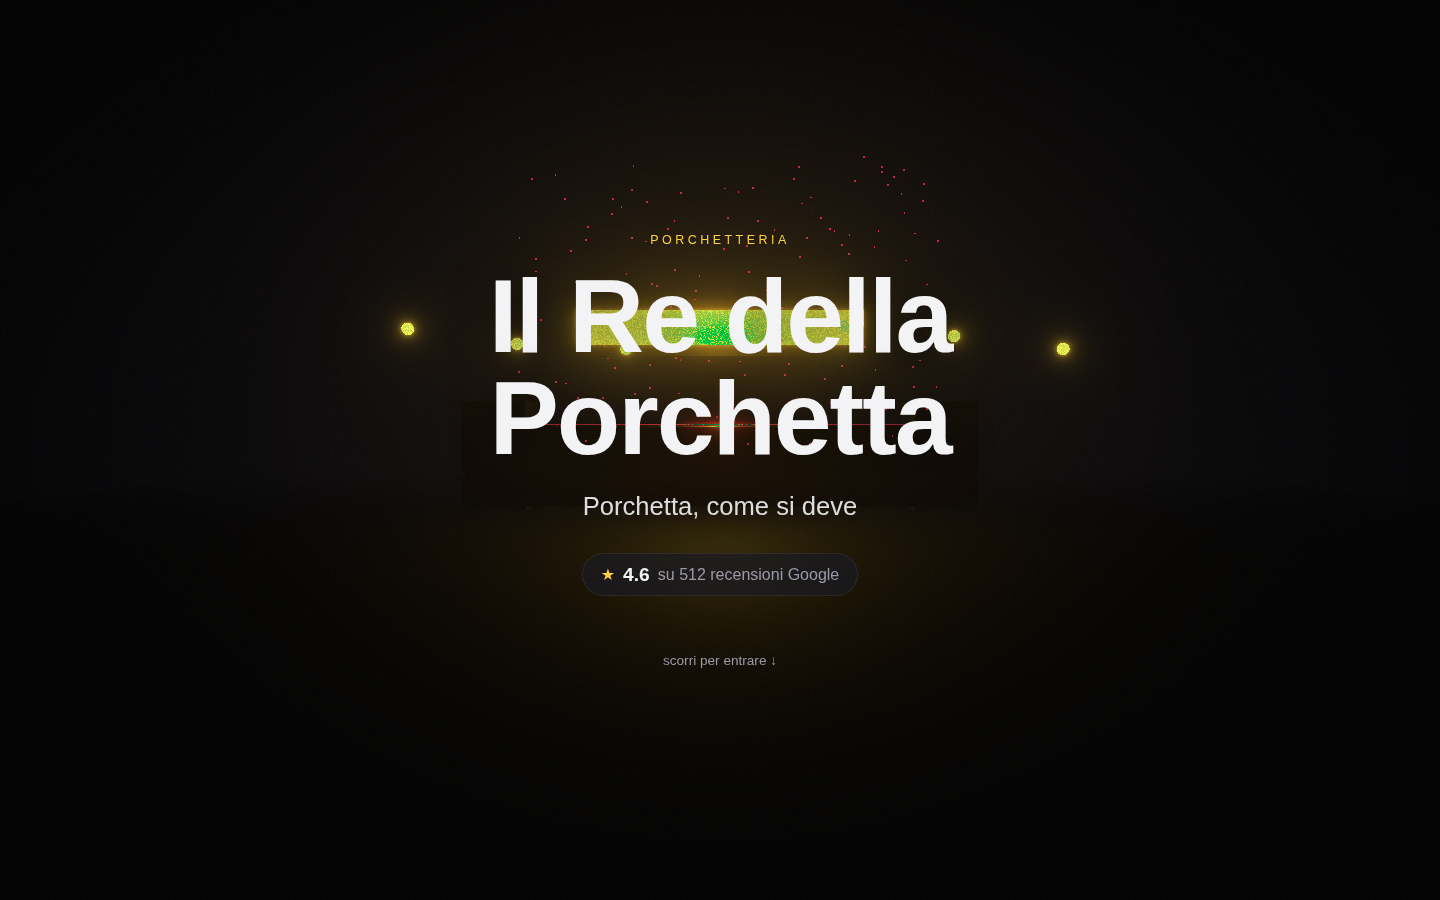
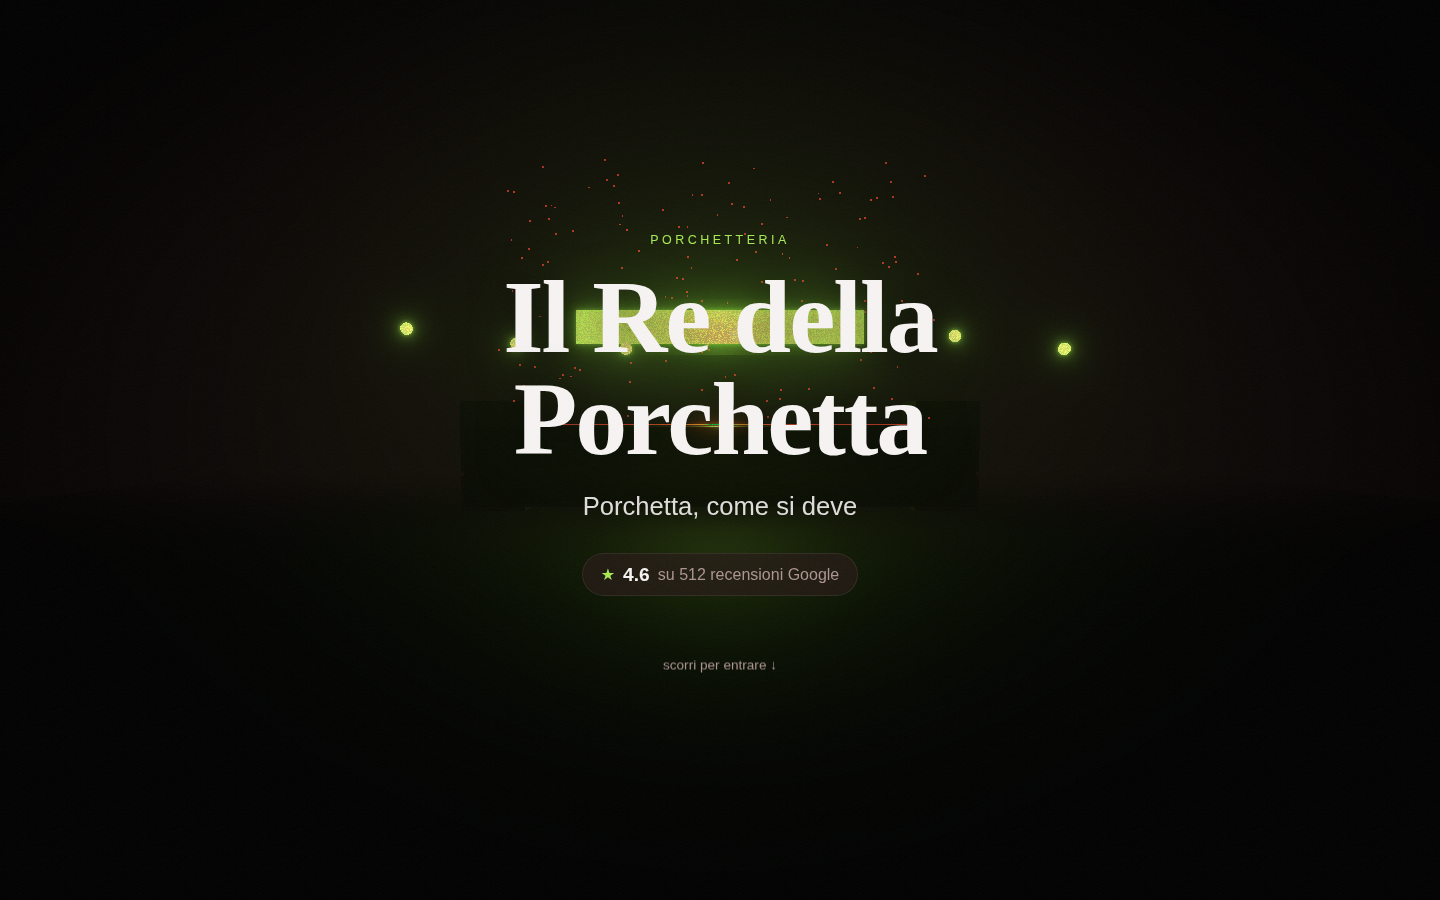
Add art-director: direzione visiva unica per ogni locale (no palette standard)
Verso "ogni sito diverso, massima qualita":
- lib/art-director.mjs: palette generata per attivita (seeded, diversa da locale a locale), coppia tipografica, motivo d'animazione di nicchia, stile camera, e BRIEF cinematografico per la fase di rifinitura
- nicchie speciali riconosciute da categoria (immobiliare=drone, elettronica=esploso) con precedenza
- build-business usa la direzione artistica al posto del tema fisso; schema: campo art_direction
- Higgsfield NON usato come dipendenza del prodotto (scelta utente); il brief cinematografico e provider-agnostico

Claude-Session: https://claude.ai/code/session_0188YfMgnDDs1NVN1Mm385NE

diff --git a/local3d-prospector/sites/il-re-della-porchetta/index.html b/local3d-prospector/sites/il-re-della-porchetta/index.html
@@ -11,7 +11,7 @@
       Un solo bundle, N siti: si cambia solo questo blocco per cliente.
     -->
     <script id="business-data">
-      window.__BUSINESS__ = {"meta":{"place_id":"mock_porchetta_re","slug":"il-re-della-porchetta","owner_id":"danilo","category":"porchetteria","template":"streetfood","build_mode":"demo","score":46,"generated_at":"2026-07-05T14:22:12.641Z"},"identity":{"name":"Il Re della Porchetta","claim":"Porchetta, come si deve","tone":"street"},"contacts":{"phone":{"value":"06 9876 5432","source":"google_places"},"address":{"value":"Piazza del Mercato 8, 00044 Frascati RM","maps_url":"https://maps.google.com/?cid=porchetta","source":"google_places"},"hours":{"value":["lunedì: Chiuso","martedì: 10:00–15:00","mercoledì: 10:00–15:00","giovedì: 10:00–15:00","venerdì: 10:00–15:00, 18:00–22:00","sabato: 10:00–22:00","domenica: 10:00–16:00"],"source":"google_places"}},"social_proof":{"rating":4.6,"count":512,"source":"google_places","themes":[{"label":"Porchetta","evidence_count":4,"source":"derived_from_reviews"},{"label":"Panino","evidence_count":2,"source":"derived_from_reviews"}],"testimonials":[{"text":"La porchetta è leggendaria, il panino più buono dei Castelli. C'è sempre la fila ma ne vale la pena.","author":"Cliente G.","source":"derived_from_reviews"},{"text":"Supplì fantastici e porchetta da urlo. Prenotate per il pranzo della domenica.","author":"Cliente M.","source":"derived_from_reviews"},{"text":"Panino con la porchetta enorme e saporito, salsiccia ottima. Sempre pieno.","author":"Cliente A.","source":"derived_from_reviews"}]},"gallery":[],"loved":[{"name":"Porchetta","source":"derived_from_reviews"},{"name":"Panino","source":"derived_from_reviews"}],"theme":{"palette":{"bg":"#0a0a0f","surface":"#15151f","primary":"#ff3d5a","accent":"#ffd23f","text":"#f5f5f7","muted":"#9a9aa8"},"font_display":"'Anton', sans-serif","font_body":"'Inter', sans-serif","fx_intensity":"high"},"sections_order":["hero","atmosphere","loved","reviews","hours","contact","cta"],"cta":{"mode":"demo","headline":"Anteprima per Il Re della Porchetta","price_setup_eur":890,"price_monthly_eur":59,"guarantee_days":7,"wa_link":"https://wa.me/390698765432?text=Buongiorno!%20Sono%20Danilo%2C%20creo%20siti%20per%20locali%20della%20zona.%20Ho%20preparato%20un'anteprima%20gratuita%20del%20sito%20di%20Il%20Re%20della%20Porchetta%2C%20guardatela%20quando%20volete%3A%20https%3A%2F%2Fapi.local3d.example%2Fd%2Ffk19bsgyna730prcctxb3e%20%E2%80%94%20se%20vi%20piace%20ne%20parliamo%2C%20altrimenti%20nessun%20problema%20%F0%9F%99%82","checkout_url":"https://api.local3d.example/buy/fk19bsgyna730prcctxb3e","track_url":"https://api.local3d.example/track"}};
+      window.__BUSINESS__ = {"meta":{"place_id":"mock_porchetta_re","slug":"il-re-della-porchetta","owner_id":"danilo","category":"porchetteria","template":"streetfood","build_mode":"demo","score":46,"generated_at":"2026-07-05T14:54:08.051Z"},"identity":{"name":"Il Re della Porchetta","claim":"Porchetta, come si deve","tone":"street"},"contacts":{"phone":{"value":"06 9876 5432","source":"google_places"},"address":{"value":"Piazza del Mercato 8, 00044 Frascati RM","maps_url":"https://maps.google.com/?cid=porchetta","source":"google_places"},"hours":{"value":["lunedì: Chiuso","martedì: 10:00–15:00","mercoledì: 10:00–15:00","giovedì: 10:00–15:00","venerdì: 10:00–15:00, 18:00–22:00","sabato: 10:00–22:00","domenica: 10:00–16:00"],"source":"google_places"}},"social_proof":{"rating":4.6,"count":512,"source":"google_places","themes":[{"label":"Porchetta","evidence_count":4,"source":"derived_from_reviews"},{"label":"Panino","evidence_count":2,"source":"derived_from_reviews"}],"testimonials":[{"text":"La porchetta è leggendaria, il panino più buono dei Castelli. C'è sempre la fila ma ne vale la pena.","author":"Cliente G.","source":"derived_from_reviews"},{"text":"Supplì fantastici e porchetta da urlo. Prenotate per il pranzo della domenica.","author":"Cliente M.","source":"derived_from_reviews"},{"text":"Panino con la porchetta enorme e saporito, salsiccia ottima. Sempre pieno.","author":"Cliente A.","source":"derived_from_reviews"}]},"gallery":[],"loved":[{"name":"Porchetta","source":"derived_from_reviews"},{"name":"Panino","source":"derived_from_reviews"}],"theme":{"palette":{"bg":"#140c0b","surface":"#271917","primary":"#e54e34","accent":"#a8ea53","text":"#f7f4f3","muted":"#ac9591"},"font_display":"'Cormorant Garamond', 'Times New Roman', serif","font_body":"'Inter', sans-serif","fx_intensity":"high"},"art_direction":{"niche":"streetfood","motif":"griglia-e-braci","camera":"orbit-counter","cinematic":{"prompt":"cinematic close-up of sizzling street food on a hot griddle, embers, steam, shallow depth of field, appetizing","aspect":"16:9","use_from":"atelier"}},"sections_order":["hero","atmosphere","loved","reviews","hours","contact","cta"],"cta":{"mode":"demo","headline":"Anteprima per Il Re della Porchetta","price_setup_eur":890,"price_monthly_eur":59,"guarantee_days":7,"wa_link":"https://wa.me/390698765432?text=Buongiorno!%20Sono%20Danilo%2C%20creo%20siti%20per%20locali%20della%20zona.%20Ho%20preparato%20un'anteprima%20gratuita%20del%20sito%20di%20Il%20Re%20della%20Porchetta%2C%20guardatela%20quando%20volete%3A%20https%3A%2F%2Fapi.local3d.example%2Fd%2Fp17ctbfgwyd4l647lvt3cd%20%E2%80%94%20se%20vi%20piace%20ne%20parliamo%2C%20altrimenti%20nessun%20problema%20%F0%9F%99%82","checkout_url":"https://api.local3d.example/buy/p17ctbfgwyd4l647lvt3cd","track_url":"https://api.local3d.example/track"}};
     </script>
     <script type="module" crossorigin src="./assets/index-DRX9uchk.js"></script>
     <link rel="modulepreload" crossorigin href="./assets/three-LddpLalT.js">

diff --git a/local3d-prospector/sites/arcadia-pub/index.html b/local3d-prospector/sites/arcadia-pub/index.html
@@ -11,7 +11,7 @@
       Un solo bundle, N siti: si cambia solo questo blocco per cliente.
     -->
     <script id="business-data">
-      window.__BUSINESS__ = {"meta":{"place_id":"mock_arcadia_pub","slug":"arcadia-pub","owner_id":"danilo","category":"pub","template":"pub","build_mode":"demo","score":56,"generated_at":"2026-07-05T14:22:12.579Z"},"identity":{"name":"Arcadia Pub","claim":"Birra artigianale, come si deve","tone":"cozy"},"contacts":{"phone":{"value":"06 1234 5670","source":"google_places"},"address":{"value":"Via dei Laghi 42, 00043 Ciampino RM","maps_url":"https://maps.google.com/?cid=arcadia","source":"google_places"},"hours":{"value":["lunedì: 18:00–01:00","martedì: 18:00–01:00","mercoledì: 18:00–01:00","giovedì: 18:00–01:00","venerdì: 18:00–02:00","sabato: 18:00–02:00","domenica: 18:00–00:00"],"source":"google_places"}},"social_proof":{"rating":4.7,"count":384,"source":"google_places","themes":[{"label":"Birra artigianale","evidence_count":2,"source":"derived_from_reviews"},{"label":"Hamburger","evidence_count":2,"source":"derived_from_reviews"}],"testimonials":[{"text":"Selezione di birra artigianale pazzesca e hamburger enormi. Il sabato è sempre pieno, consiglio di prenotare.","author":"Cliente G.","source":"derived_from_reviews"},{"text":"Le alette di pollo sono le migliori della zona, atmosfera top e staff gentilissimo.","author":"Cliente M.","source":"derived_from_reviews"},{"text":"Locale sempre affollato, ottima birra e patatine fantastiche. Difficile trovare posto senza prenotazione.","author":"Cliente A.","source":"derived_from_reviews"}]},"gallery":[],"loved":[{"name":"Birra artigianale","source":"derived_from_reviews"},{"name":"Hamburger","source":"derived_from_reviews"}],"theme":{"palette":{"bg":"#140f0a","surface":"#221913","primary":"#e08a3c","accent":"#f2c879","text":"#f7efe4","muted":"#b09a82"},"font_display":"'Fraunces', serif","font_body":"'Inter', sans-serif","fx_intensity":"medium"},"sections_order":["hero","atmosphere","loved","reviews","hours","contact","cta"],"cta":{"mode":"demo","headline":"Anteprima per Arcadia Pub","price_setup_eur":890,"price_monthly_eur":59,"guarantee_days":7,"wa_link":"https://wa.me/390612345670?text=Buongiorno!%20Sono%20Danilo%2C%20creo%20siti%20per%20locali%20della%20zona.%20Ho%20preparato%20un'anteprima%20gratuita%20del%20sito%20di%20Arcadia%20Pub%2C%20guardatela%20quando%20volete%3A%20https%3A%2F%2Fapi.local3d.example%2Fd%2Fb63umu8sr49q16ya33e3na%20%E2%80%94%20se%20vi%20piace%20ne%20parliamo%2C%20altrimenti%20nessun%20problema%20%F0%9F%99%82","checkout_url":"https://api.local3d.example/buy/b63umu8sr49q16ya33e3na","track_url":"https://api.local3d.example/track"}};
+      window.__BUSINESS__ = {"meta":{"place_id":"mock_arcadia_pub","slug":"arcadia-pub","owner_id":"danilo","category":"pub","template":"pub","build_mode":"demo","score":56,"generated_at":"2026-07-05T14:54:07.786Z"},"identity":{"name":"Arcadia Pub","claim":"Birra artigianale, come si deve","tone":"cozy"},"contacts":{"phone":{"value":"06 1234 5670","source":"google_places"},"address":{"value":"Via dei Laghi 42, 00043 Ciampino RM","maps_url":"https://maps.google.com/?cid=arcadia","source":"google_places"},"hours":{"value":["lunedì: 18:00–01:00","martedì: 18:00–01:00","mercoledì: 18:00–01:00","giovedì: 18:00–01:00","venerdì: 18:00–02:00","sabato: 18:00–02:00","domenica: 18:00–00:00"],"source":"google_places"}},"social_proof":{"rating":4.7,"count":384,"source":"google_places","themes":[{"label":"Birra artigianale","evidence_count":2,"source":"derived_from_reviews"},{"label":"Hamburger","evidence_count":2,"source":"derived_from_reviews"}],"testimonials":[{"text":"Selezione di birra artigianale pazzesca e hamburger enormi. Il sabato è sempre pieno, consiglio di prenotare.","author":"Cliente G.","source":"derived_from_reviews"},{"text":"Le alette di pollo sono le migliori della zona, atmosfera top e staff gentilissimo.","author":"Cliente M.","source":"derived_from_reviews"},{"text":"Locale sempre affollato, ottima birra e patatine fantastiche. Difficile trovare posto senza prenotazione.","author":"Cliente A.","source":"derived_from_reviews"}]},"gallery":[],"loved":[{"name":"Birra artigianale","source":"derived_from_reviews"},{"name":"Hamburger","source":"derived_from_reviews"}],"theme":{"palette":{"bg":"#17110c","surface":"#231c15","primary":"#e9862f","accent":"#53ea5d","text":"#f7f5f3","muted":"#ac9d91"},"font_display":"'Anton', 'Archivo Black', sans-serif","font_body":"'Inter', sans-serif","fx_intensity":"high"},"art_direction":{"niche":"pub","motif":"ingresso-nel-locale","camera":"dolly-forward","cinematic":{"prompt":"cinematic slow push-in through a warm dim craft-beer pub interior, glowing taps, bokeh, film grain","aspect":"16:9","use_from":"atelier"}},"sections_order":["hero","atmosphere","loved","reviews","hours","contact","cta"],"cta":{"mode":"demo","headline":"Anteprima per Arcadia Pub","price_setup_eur":890,"price_monthly_eur":59,"guarantee_days":7,"wa_link":"https://wa.me/390612345670?text=Buongiorno!%20Sono%20Danilo%2C%20creo%20siti%20per%20locali%20della%20zona.%20Ho%20preparato%20un'anteprima%20gratuita%20del%20sito%20di%20Arcadia%20Pub%2C%20guardatela%20quando%20volete%3A%20https%3A%2F%2Fapi.local3d.example%2Fd%2Fnzbx9mw2wtnm8nj4k2gn2q%20%E2%80%94%20se%20vi%20piace%20ne%20parliamo%2C%20altrimenti%20nessun%20problema%20%F0%9F%99%82","checkout_url":"https://api.local3d.example/buy/nzbx9mw2wtnm8nj4k2gn2q","track_url":"https://api.local3d.example/track"}};
     </script>
     <script type="module" crossorigin src="./assets/index-DRX9uchk.js"></script>
     <link rel="modulepreload" crossorigin href="./assets/three-LddpLalT.js">

diff --git a/local3d-prospector/outbox/cockpit.html b/local3d-prospector/outbox/cockpit.html
@@ -22,7 +22,7 @@ code{background:#000;padding:.25rem .5rem;border-radius:6px;font-size:.75rem;col
 .empty{color:#6a6a78;font-style:italic}
 </style></head><body>
 <h1>Local3D · Cockpit</h1>
-<div class="sub">Governa i due cancelli. Aggiornato: 2026-07-05T14:22:37.423Z</div>
+<div class="sub">Governa i due cancelli. Aggiornato: 2026-07-05T14:54:30.792Z</div>
 <div class="kpis">
   <div class="kpi"><b>3</b><span>prospect totali</span></div>
   <div class="kpi"><b>2</b><span>demo da approvare</span></div>
@@ -36,8 +36,8 @@ code{background:#000;padding:.25rem .5rem;border-radius:6px;font-size:.75rem;col
     <div class="chead"><h3>Arcadia Pub</h3><span class="score">56</span></div>
     <div class="meta">4.7★ (384) · Ciampino · pub · <span class="state s-demo-pronta">demo-pronta</span></div>
     <div class="shots"><a href="../sites/arcadia-pub/shots/desktop-hero.png" target="_blank"><img src="../sites/arcadia-pub/shots/desktop-hero.png" loading="lazy"></a><a href="../sites/arcadia-pub/shots/mobile-hero.png" target="_blank"><img src="../sites/arcadia-pub/shots/mobile-hero.png" loading="lazy"></a><a href="../sites/arcadia-pub/shots/desktop-cta.png" target="_blank"><img src="../sites/arcadia-pub/shots/desktop-cta.png" loading="lazy"></a></div>
-    <div class="meta small">QA ✓ 1139KB · 564ms</div>
-    <div class="meta small">Demo: <code>https://api.local3d.example/d/b63umu8sr49q16ya33e3na</code></div>
+    <div class="meta small">QA ✓ 1139KB · 606ms</div>
+    <div class="meta small">Demo: <code>https://api.local3d.example/d/nzbx9mw2wtnm8nj4k2gn2q</code></div>
     <div class="actions">
       <code>npm run registry -- approve mock_arcadia_pub</code>
       <code>npm run registry -- reject mock_arcadia_pub</code>
@@ -46,8 +46,8 @@ code{background:#000;padding:.25rem .5rem;border-radius:6px;font-size:.75rem;col
     <div class="chead"><h3>Il Re della Porchetta</h3><span class="score">46</span></div>
     <div class="meta">4.6★ (512) · Frascati · streetfood · <span class="state s-demo-pronta">demo-pronta</span></div>
     <div class="shots"><a href="../sites/il-re-della-porchetta/shots/desktop-hero.png" target="_blank"><img src="../sites/il-re-della-porchetta/shots/desktop-hero.png" loading="lazy"></a><a href="../sites/il-re-della-porchetta/shots/mobile-hero.png" target="_blank"><img src="../sites/il-re-della-porchetta/shots/mobile-hero.png" loading="lazy"></a><a href="../sites/il-re-della-porchetta/shots/desktop-cta.png" target="_blank"><img src="../sites/il-re-della-porchetta/shots/desktop-cta.png" loading="lazy"></a></div>
-    <div class="meta small">QA ✓ 1139KB · 561ms</div>
-    <div class="meta small">Demo: <code>https://api.local3d.example/d/fk19bsgyna730prcctxb3e</code></div>
+    <div class="meta small">QA ✓ 1139KB · 548ms</div>
+    <div class="meta small">Demo: <code>https://api.local3d.example/d/p17ctbfgwyd4l647lvt3cd</code></div>
     <div class="actions">
       <code>npm run registry -- approve mock_porchetta_re</code>
       <code>npm run registry -- reject mock_porchetta_re</code>

diff --git a/local3d-prospector/outbox/il-re-della-porchetta.md b/local3d-prospector/outbox/il-re-della-porchetta.md
@@ -1,6 +1,6 @@
 # Il Re della Porchetta
 
-**Demo:** https://api.local3d.example/d/fk19bsgyna730prcctxb3e
+**Demo:** https://api.local3d.example/d/p17ctbfgwyd4l647lvt3cd
 **Score:** 46  ·  **Rating:** 4.6 (512 rec.)  ·  **Zona:** Frascati
 
 ## Email → prenotazioni@reporchetta.example
@@ -11,7 +11,7 @@ Buongiorno,
 
 mi chiamo Danilo, creo siti web per locali della zona. Ho visto le vostre ottime recensioni (specie per porchetta), e ho notato che Il Re della Porchetta non ha ancora un sito proprio — così ne ho preparata un'anteprima, gratis e senza impegno, per farvi vedere come potrebbe essere.
 
-La trovate qui: https://api.local3d.example/d/fk19bsgyna730prcctxb3e
+La trovate qui: https://api.local3d.example/d/p17ctbfgwyd4l647lvt3cd
 
 È un sito moderno, con animazioni, pensato per farsi trovare e prendere prenotazioni. Se vi piace possiamo attivarlo con un dominio vostro (890€ una tantum + 59€/mese tutto incluso, soddisfatti o rimborsati entro 7 giorni). Se non vi interessa, nessun problema.
 
@@ -22,6 +22,6 @@ Danilo
 ```
 
 ## WhatsApp (invio manuale) 
-Link: https://wa.me/390698765432?text=Buongiorno!%20Sono%20Danilo%2C%20creo%20siti%20per%20locali%20della%20zona.%20Ho%20preparato%20un'anteprima%20gratuita%20del%20sito%20di%20Il%20Re%20della%20Porchetta%2C%20guardatela%20quando%20volete%3A%20https%3A%2F%2Fapi.local3d.example%2Fd%2Ffk19bsgyna730prcctxb3e%20%E2%80%94%20se%20vi%20piace%20ne%20parliamo%2C%20altrimenti%20nessun%20problema%20%F0%9F%99%82
+Link: https://wa.me/390698765432?text=Buongiorno!%20Sono%20Danilo%2C%20creo%20siti%20per%20locali%20della%20zona.%20Ho%20preparato%20un'anteprima%20gratuita%20del%20sito%20di%20Il%20Re%20della%20Porchetta%2C%20guardatela%20quando%20volete%3A%20https%3A%2F%2Fapi.local3d.example%2Fd%2Fp17ctbfgwyd4l647lvt3cd%20%E2%80%94%20se%20vi%20piace%20ne%20parliamo%2C%20altrimenti%20nessun%20problema%20%F0%9F%99%82
 
-> Buongiorno! Sono Danilo, creo siti per locali della zona. Ho preparato un'anteprima gratuita del sito di Il Re della Porchetta, guardatela quando volete: https://api.local3d.example/d/fk19bsgyna730prcctxb3e — se vi piace ne parliamo, altrimenti nessun problema 🙂
+> Buongiorno! Sono Danilo, creo siti per locali della zona. Ho preparato un'anteprima gratuita del sito di Il Re della Porchetta, guardatela quando volete: https://api.local3d.example/d/p17ctbfgwyd4l647lvt3cd — se vi piace ne parliamo, altrimenti nessun problema 🙂

diff --git a/local3d-prospector/outbox/arcadia-pub.md b/local3d-prospector/outbox/arcadia-pub.md
@@ -1,6 +1,6 @@
 # Arcadia Pub
 
-**Demo:** https://api.local3d.example/d/b63umu8sr49q16ya33e3na
+**Demo:** https://api.local3d.example/d/nzbx9mw2wtnm8nj4k2gn2q
 **Score:** 56  ·  **Rating:** 4.7 (384 rec.)  ·  **Zona:** Ciampino
 
 ## Email → info@arcadiapub.example
@@ -11,7 +11,7 @@ Buongiorno,
 
 mi chiamo Danilo, creo siti web per locali della zona. Ho visto le vostre ottime recensioni (specie per birra artigianale), e ho notato che Arcadia Pub non ha ancora un sito proprio — così ne ho preparata un'anteprima, gratis e senza impegno, per farvi vedere come potrebbe essere.
 
-La trovate qui: https://api.local3d.example/d/b63umu8sr49q16ya33e3na
+La trovate qui: https://api.local3d.example/d/nzbx9mw2wtnm8nj4k2gn2q
 
 È un sito moderno, con animazioni, pensato per farsi trovare e prendere prenotazioni. Se vi piace possiamo attivarlo con un dominio vostro (890€ una tantum + 59€/mese tutto incluso, soddisfatti o rimborsati entro 7 giorni). Se non vi interessa, nessun problema.
 
@@ -22,6 +22,6 @@ Danilo
 ```
 
 ## WhatsApp (invio manuale) 
-Link: https://wa.me/390612345670?text=Buongiorno!%20Sono%20Danilo%2C%20creo%20siti%20per%20locali%20della%20zona.%20Ho%20preparato%20un'anteprima%20gratuita%20del%20sito%20di%20Arcadia%20Pub%2C%20guardatela%20quando%20volete%3A%20https%3A%2F%2Fapi.local3d.example%2Fd%2Fb63umu8sr49q16ya33e3na%20%E2%80%94%20se%20vi%20piace%20ne%20parliamo%2C%20altrimenti%20nessun%20problema%20%F0%9F%99%82
+Link: https://wa.me/390612345670?text=Buongiorno!%20Sono%20Danilo%2C%20creo%20siti%20per%20locali%20della%20zona.%20Ho%20preparato%20un'anteprima%20gratuita%20del%20sito%20di%20Arcadia%20Pub%2C%20guardatela%20quando%20volete%3A%20https%3A%2F%2Fapi.local3d.example%2Fd%2Fnzbx9mw2wtnm8nj4k2gn2q%20%E2%80%94%20se%20vi%20piace%20ne%20parliamo%2C%20altrimenti%20nessun%20problema%20%F0%9F%99%82
 
-> Buongiorno! Sono Danilo, creo siti per locali della zona. Ho preparato un'anteprima gratuita del sito di Arcadia Pub, guardatela quando volete: https://api.local3d.example/d/b63umu8sr49q16ya33e3na — se vi piace ne parliamo, altrimenti nessun problema 🙂
+> Buongiorno! Sono Danilo, creo siti per locali della zona. Ho preparato un'anteprima gratuita del sito di Arcadia Pub, guardatela quando volete: https://api.local3d.example/d/nzbx9mw2wtnm8nj4k2gn2q — se vi piace ne parliamo, altrimenti nessun problema 🙂

diff --git a/local3d-prospector/outbox/REPORT.md b/local3d-prospector/outbox/REPORT.md
@@ -11,14 +11,14 @@
 
 ### Arcadia Pub  ·  score 56  ·  4.7★ (384)
 - Zona: Ciampino · Template: pub
-- Demo: https://api.local3d.example/d/b63umu8sr49q16ya33e3na
+- Demo: https://api.local3d.example/d/nzbx9mw2wtnm8nj4k2gn2q
 - Screenshot: `sites/arcadia-pub/shots/desktop-hero.png`, `mobile-hero.png`, `desktop-cta.png`
 - Approva:  `npm run registry -- approve mock_arcadia_pub`
 - Scarta:   `npm run registry -- reject mock_arcadia_pub`
 
 ### Il Re della Porchetta  ·  score 46  ·  4.6★ (512)
 - Zona: Frascati · Template: streetfood
-- Demo: https://api.local3d.example/d/fk19bsgyna730prcctxb3e
+- Demo: https://api.local3d.example/d/p17ctbfgwyd4l647lvt3cd
 - Screenshot: `sites/il-re-della-porchetta/shots/desktop-hero.png`, `mobile-hero.png`, `desktop-cta.png`
 - Approva:  `npm run registry -- approve mock_porchetta_re`
 - Scarta:   `npm run registry -- reject mock_porchetta_re`
